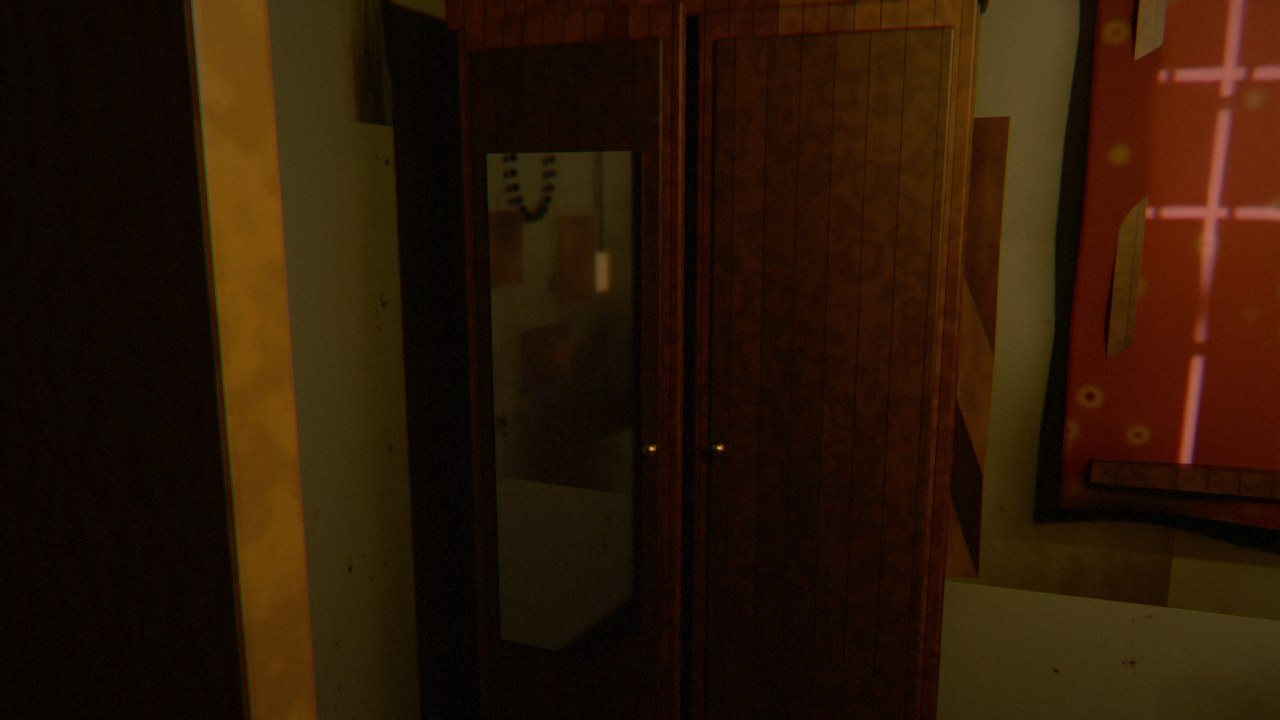
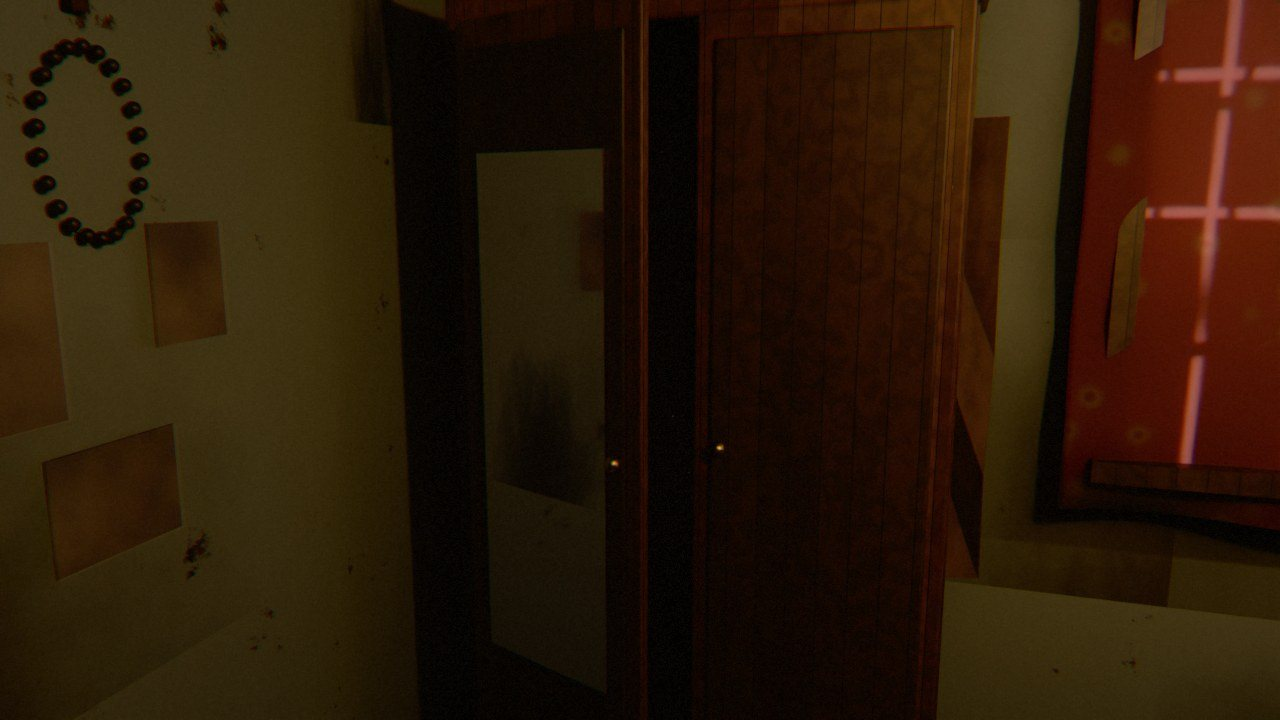
Aparador opens wide enough to see from the middle of the room (three steps, then it gets you)
Claude-Session: https://claude.ai/code/session_017aRE9KzReX3GXwj8sX4dxv

Changed region(s): [[0.0, 0.0, 0.25, 1.0], [0.4062, 0.0, 0.5625, 0.8556], [0.375, 0.2139, 0.4375, 0.3667]]

diff --git a/game/index.html b/game/index.html
@@ -2851,7 +2851,7 @@ if (typeof module !== 'undefined') module.exports = C1;
     var g = game, p = g.p, H = g.house, k = g.k, s = g.s, b = g.b, keys = [];
     if (g.chapter === 1 && p.pos === 'center' && !p.travel && !p.hidden && H.power && k.st !== 4) {
       if (s.on && s.st >= 2) keys.push('hubx_s' + Math.min(3, s.st) + (H.curtain ? 'o' : 'c'));
-      if (b.on && b.st >= 1) keys.push('hubx_b' + Math.max(2, Math.min(4, b.st)));
+      if (b.on && b.st >= 1) keys.push('hubx_b' + Math.min(4, b.st));
     }
     ovlSwap(keys);
   }

diff --git a/tools/src/ui.js b/tools/src/ui.js
@@ -1259,7 +1259,7 @@
     var g = game, p = g.p, H = g.house, k = g.k, s = g.s, b = g.b, keys = [];
     if (g.chapter === 1 && p.pos === 'center' && !p.travel && !p.hidden && H.power && k.st !== 4) {
       if (s.on && s.st >= 2) keys.push('hubx_s' + Math.min(3, s.st) + (H.curtain ? 'o' : 'c'));
-      if (b.on && b.st >= 1) keys.push('hubx_b' + Math.max(2, Math.min(4, b.st)));
+      if (b.on && b.st >= 1) keys.push('hubx_b' + Math.min(4, b.st));
     }
     ovlSwap(keys);
   }
